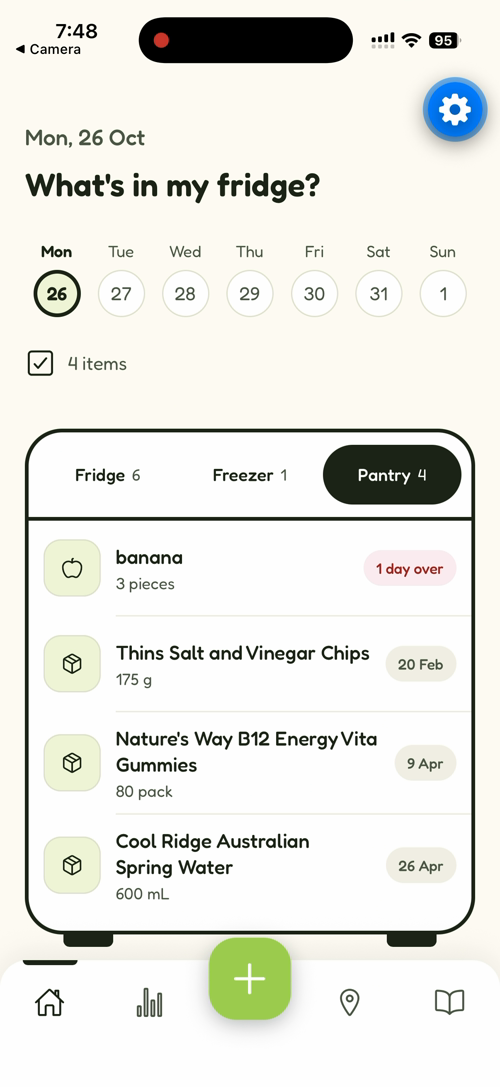
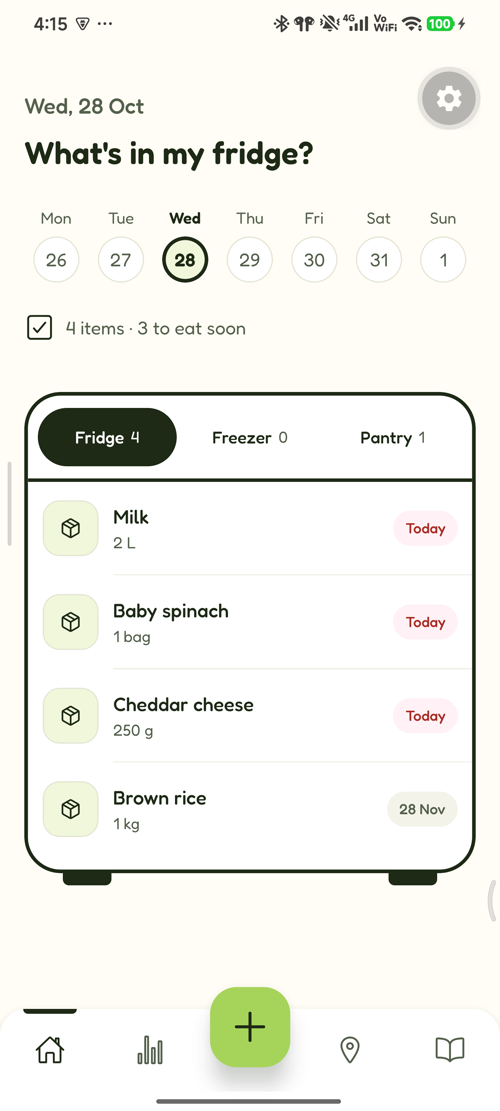
docs(userguide): retake Home, item and settings shots on the current build
The first recording was made before the last fixes, so Home said
"fridge" on the Pantry tab and the item screen showed the old reminder
card. These are retaken on an Android phone running main: Home on the
Pantry and Fridge tabs, the item screen with its Reminders card and
action buttons, and recipe settings. The swipe GIF is back, recorded
swiping a row open and closed.

diff --git a/userguide/README.md b/userguide/README.md
@@ -24,7 +24,7 @@ This guide walks you through the main things you can do, step by step. You don't
 
 When you open the app, you land on **What's in my fridge?**. Under the title are three tabs, **Fridge**, **Freezer** and **Pantry**, each showing how many items it holds. The first time, they're empty.
 
-<img src="images/01-home.png" alt="Home on the Pantry tab with three items, and the bottom bar" width="250">
+<img src="images/01-home.png" alt="Home on the Pantry tab, titled &quot;What's in my pantry?&quot;, with the Fridge, Freezer and Pantry tabs and the bottom bar" width="250">
 
 The bar at the bottom takes you around the app:
 
@@ -83,9 +83,11 @@ The line under the title tells you how much is there, for example "5 items · 2 
 
 The row also says when it expires: "Today", "Tomorrow", a weekday, a date, or "2 days over" for food that has already expired.
 
-<img src="images/05-home-list.png" alt="Home on the Pantry tab, soonest expiry first: an expired banana with a red badge, then food with later dates" width="250">
+<img src="images/05-home-list.png" alt="Home on the Fridge tab, soonest expiry first: three items expiring today with red badges, then brown rice on 28 Nov" width="250">
 
 **Shortcut:** swipe a row to the left to show **Edit** and **Delete**. Delete always asks you to confirm first.
+
+<img src="images/06-swipe.gif" alt="Swiping the Milk row left to show Edit and Delete, then closing it" width="250">
 
 ## 5. Get reminded before food expires
 
@@ -117,7 +119,7 @@ To change anything else, tap the pencil at the top right. The same form as **Add
 
 To remove an item completely, tap **Delete item** at the bottom. The app asks you to confirm with **Delete**, and you can tap **Keep item** to back out.
 
-<img src="images/08-item.png" alt="The item screen for a bottle of water kept in the pantry: when it expires and its reminders" width="250">
+<img src="images/08-item.png" alt="The item screen for milk kept in the fridge: it expires today, and its reminder is set for the expiry day" width="250">
 
 ## 7. Mark food as eaten or thrown out
 
@@ -173,6 +175,8 @@ The app can ask an AI model for simple recipes that use the food you pick. You n
 2. Under **Model**, keep **Gemini Flash**, which is free.
 3. Tap **Get a key** to open Google AI Studio, create a key and copy it.
 4. Paste it into the key box and tap **Save and check**. The app checks the key works before saving it. It's kept only in your phone's secure storage.
+
+<img src="images/11-recipe-settings.png" alt="Recipe settings with the four models, Matilda chosen, and its saved key shown only by its last four characters" width="250">
 
 **Get recipes:**
 
